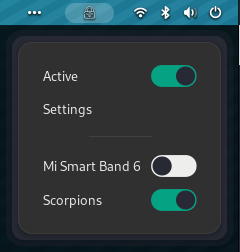
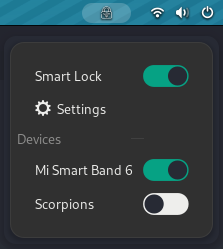
Update description and screenhosts

diff --git a/smartlock.js b/smartlock.js
@@ -43,7 +43,7 @@ var SmartLock = class SmartLock {
                 this._deviceAddress = this._settings.getDevice();
                 this._lastSeen = 0;
             }
-        })
+        });
 
         this._runLoop();
     }
@@ -51,8 +51,8 @@ var SmartLock = class SmartLock {
     disable() {
         this._log('Disabling extension');
 
-        if(this._deviceChangeHandlerId)
-            this._settings._settings.disconnect(this._deviceChangeHandlerId)
+        if (this._deviceChangeHandlerId)
+            this._settings._settings.disconnect(this._deviceChangeHandlerId);
 
         if (this._loop) {
             MainLoop.source_remove(this._loop);

diff --git a/indicator.js b/indicator.js
@@ -41,7 +41,7 @@ var Indicator = GObject.registerClass(
             });
             this.menu.addMenuItem(activeMenu);
 
-            let icon = new Gio.ThemedIcon({ name: "emblem-system-symbolic" });
+            let icon = new Gio.ThemedIcon({name: 'emblem-system-symbolic'});
             let settingsMenu = new PopupMenu.PopupImageMenuItem(_('Settings'), icon);
             settingsMenu.connect('activate', () => {
                 ExtensionUtils.openPrefs();

diff --git a/prefs.js b/prefs.js
@@ -29,7 +29,7 @@ class SettingsBuilder {
         this._container = this._builder.get_object('container');
         this._builder.get_object('advanced_button').connect('clicked', () => {
             let dialog = new Gtk.Dialog({
-                title: 'Advaned settings',
+                title: 'Advanced Settings',
                 transient_for: this._container.get_ancestor(Gtk.Window),
                 use_header_bar: true,
                 modal: true,

diff --git a/extension.js b/extension.js
@@ -61,8 +61,8 @@ class Extension {
         this._indicator.destroy();
         this._indicator = null;
 
-        if(this._indicatorChangeHandlerId)
-            this._settings._settings.disconnect(this._indicatorChangeHandlerId)
+        if (this._indicatorChangeHandlerId)
+            this._settings._settings.disconnect(this._indicatorChangeHandlerId);
 
         this._settings = null;
 

diff --git a/README.md b/README.md
@@ -1,21 +1,43 @@
-# Bluetooth Smart Lock
+# Bluetooth Smart Lock ![Smart Lock icon](https://raw.githubusercontent.com/ba0f3/gnome-bluetooth-smartlock/main/screenshots/icon.png)
 
-Dynamic lock for GNOME. Lock your desktop automatically when you step away.
+Dynamic lock for GNOME. Use your smart phone/watch/band to lock your desktop automatically when you step away.
+
+When your device is out of bluetooth range or get disconnected, it will lock your desktop automatically.
 
 ## Usage
 
-Once installed, an icon will added to your status bar. Click on it to select a paired device as smart lock.
+Click on *Smart Lock* icon to activate its menu, and select one of your paired devices as your smart lock
 
-When your device is out of bluetooth range or disconnected, in one minute (configurable), it will lock your desktop automatically.
+![Smart lock menu](https://raw.githubusercontent.com/ba0f3/gnome-bluetooth-smartlock/main/screenshots/screenshot1.png)
+
 
 ** This extension will try to connects to your device frequently (for some reason (idk yet), `bluez` wont reconnect to smart phone after disconnected)
 
+### Settings
+
+![Settings](https://raw.githubusercontent.com/ba0f3/gnome-bluetooth-smartlock/main/screenshots/screenshot2.png)
+
+The extension comes with default settings, but you can tweak them as your need.
+
+![Advanced settings](https://raw.githubusercontent.com/ba0f3/gnome-bluetooth-smartlock/main/screenshots/screenshot3.png)
 ## Installation
 
 ### Requirements
 
- * bluez (on ubuntu: `sudo apt install bluez`)
+ * bluez (on debian based distro: `sudo apt install bluez`)
 
 ### Installation from extensions.gnome.org
 
 https://extensions.gnome.org/extension/5359/bluetooth-smart-lock/
+
+### Install from source
+
+Requires:
+* git
+* make
+
+```sh
+git clone https://github.com/ba0f3/gnome-bluetooth-smartlock.git
+cd gnome-bluetooth-smartlock
+make install
+```
